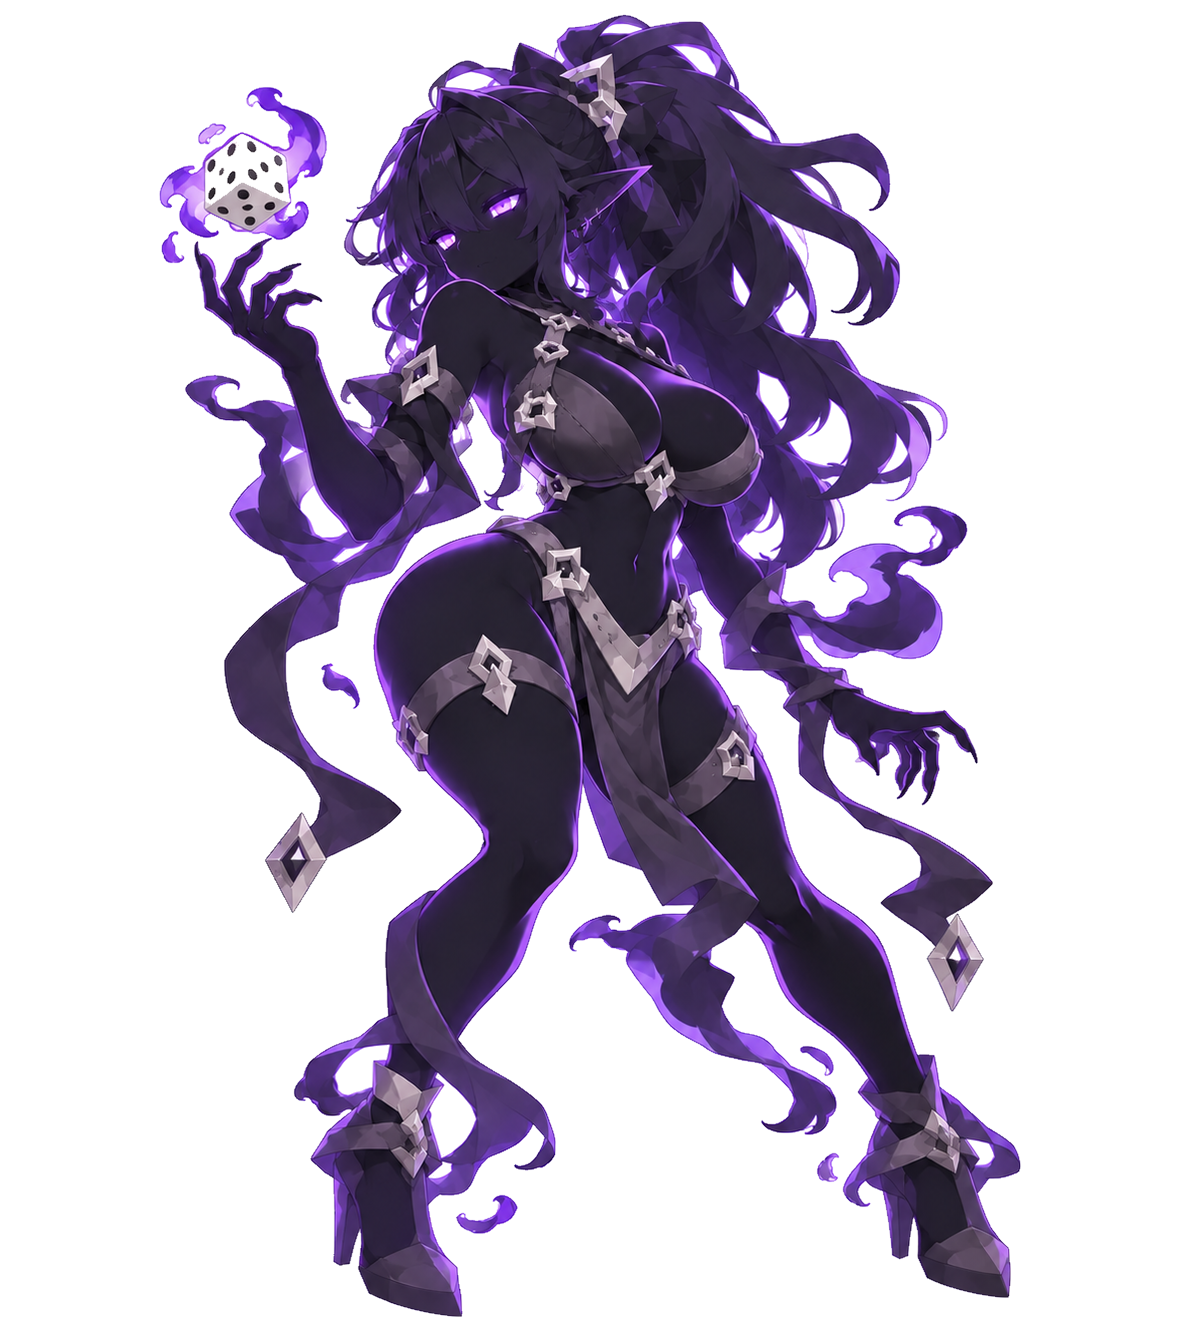
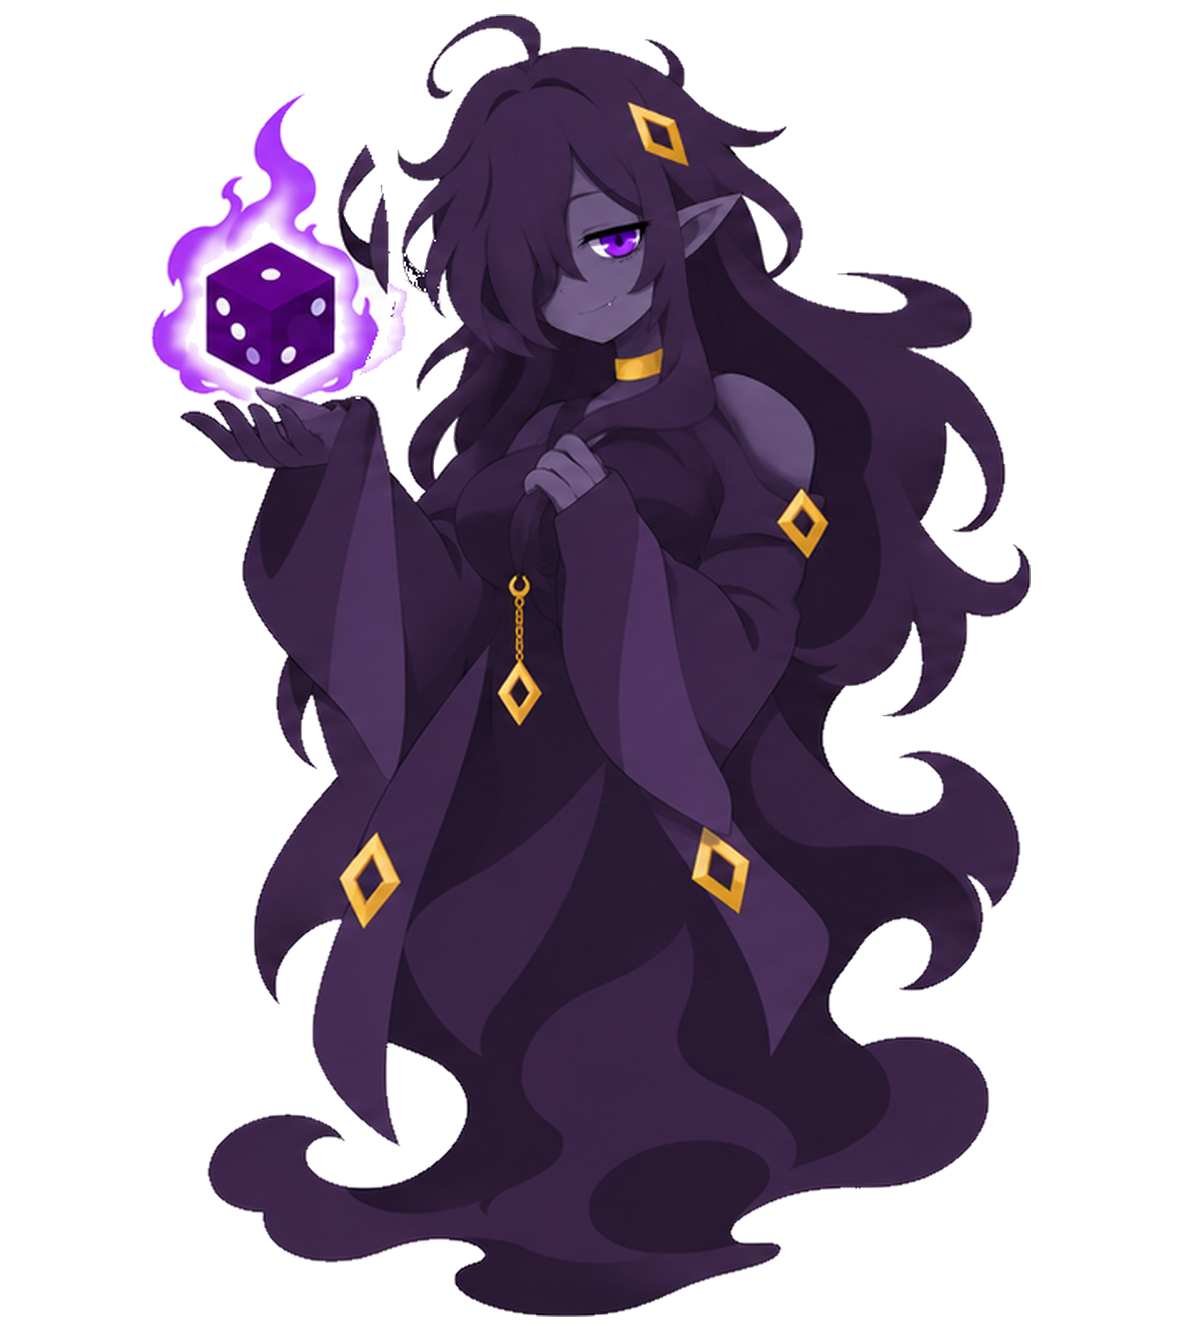
art: 45차 — 그림자 보라 확정·적용, 아머 고블린 rs11(기본/기쁨), 공허의 눈 b22

diff --git a/docs/art/ART_RESOURCES.md b/docs/art/ART_RESOURCES.md
@@ -723,6 +723,7 @@ Work는 `resources/ui/` 이미지가 있으면 StyleBoxTexture로 쓰고, 없으
   - 43차(2026-11-09): 그림자 — rs22 표정은 그럴듯하나 머리가 너무 큼 → GPT 재요청(rs23)은 자세·표정·주사위까지 바뀌어 폐기 → `tools/artgen/head_shrink.gd`(목 기준 핀치 변형, 불꽃·주사위 타원은 보호)로 rs22 머리만 약 74%로 축소(rs24). 표정·자세·주사위 1-3-2 그대로. 시트 `qa_out/r3/r42_shadow.png`(위 rs22 / 아래 rs24).
   - 참고(2026-11-09, Work 40fc4ea): 전투 초상 셰이더가 색을 두 번 곱하던 버그 수정 → 그동안 게임 안 원화가 원본보다 어둡고 진하게(광란의 마수는 유독 붉게) 보였음. 이제 게임 화면 = 원본 PNG 색. 게임 캡처로 색을 판단할 때는 수정 후 기준. 점액 군주(얼굴)·광란의 마수(목걸이 주사위)는 보스별 전투 크롭 지정. 비교 `qa_out/boss_fix_compare.png`.
   - 44차(2026-11-09): 그림자 — rs24 머리 크기 OK(사용자 "이 크기면 될듯"), 불꽃 옆 머리카락 끝 자국 정리. 색 3종 중 선택 대기. 아머 고블린 — 빨간 귀걸이 주사위를 다른 쪽과 같은 흰색으로(rs9 전신 편집에서 귀걸이만 rs8에 이식: 3·5로 서로 다름), 허리에 얹은 팔의 어깨 갑주가 어깨와 어긋남 → 어깨 크롭 GPT로 실제 어깨 관절 위에 씌움(6눈금, rs10). 웃는 표정 = 기쁨 상태, 기본 표정은 얼굴 크롭으로 요청 중. 공허의 눈 — A안(한쪽)은 가슴이 아니라 어깨에 붙어 비교 불가, B안(가운데) 위치는 좋지만 상처가 굴곡에 안 맞고 떠 보임 → b20(상처가 골 안으로 사라지며 X 소실, 폐기) → b21: X 네 갈래가 가슴 굴곡을 따라 휘고 가장자리 음영(가슴 크롭만 GPT). 보석 아래 띠 색이 조금 변함.
+  - 45차(2026-11-09): ✅ **그림자 보라 확정·적용**(rs24 머리 축소본의 보라 변형 → `resources/monsters/shadow/full.png`, 참고 `_reference/monsters/shadow/mo_shadow_full_final.png`). 배경 제거 시 불꽃 안쪽 흰 빛이 반투명으로 빠져 어두운 고리가 생긴 것·머리카락 사이 갇힌 흰 배경을 정리. 아머 고블린 — 허리에 손 얹은 쪽 어깨 갑주 제거(어깨 갑주는 메이스 쪽 한쪽만), 메이스 머리 1.17배(`tools/artgen/scale_part.gd`, 로컬 확대)(rs11). 웃는 얼굴 = 기쁨 상태, 기본 표정(눈 뜨고 덧니 하나 보이는 자신만만한 미소)은 얼굴 크롭으로 rs11d. 귀걸이 3·5. 메이스 위에 걸친 손은 유지. 공허의 눈 — b21 방향·상처 디자인 확정, 오른쪽 아래 갈래가 굴곡과 안 맞음 → 그 갈래만 가슴 밑 곡선을 따라 한 줄로(b22, 가슴 크롭 GPT).
 **광견 기준 정리 (2026-10-28)**: 기준은 rs15_mad_dog_1(꾸밈 흔적 버전 — 사람 얼굴·밝은 주황갈색 털·피부와 털 비율). 최신 색 수정본(1c 등)은 얼굴이 개 주둥이·털이 어두워짐 → 폐기. 수정: 붉은 리본·천을 크림·갈색으로, 홍조 제거. 입마개는 입을 가리면 별로 → **입을 가리지 않는 입마개** 시안(젠레스 존 제로 리카온 같은 턱 가드형, 오픈형 하네스, 턱끈형 등).
 
 **표준 프롬프트 (2026-10-27 사용자 지시)**: 모든 몬스터 이미지 요청에 `tools/artgen/style_monster.txt`(견습 모험가 화풍 + 낮은 복잡도 + 주사위 눈금 + 왼쪽 향 전신 + **견습 모험가는 화풍 참조일 뿐, 포즈·표정은 캐릭터 고유의 것으로**)를 기본으로 붙이고, 견습 모험가 원화(`resources/characters/novice/full.png`)와 **키 비주얼(`resources/key_visual/key_visual_tavern.png`, 2026-10-28 사용자 지정 화풍 기준)**을 항상 첨부한다. 사용자가 매번 "복잡도 줄이고 모험가 화풍 맞추기"를 짚지 않아도 되게 할 것. **2026-11-04 보강(사용자 지시: 자주 나오는 피드백은 기본 프롬프트에)**: ① 기존 그림 수정 시 원본의 색감·채도·명도·외곽선 굵기/색을 그대로 유지(짙어지거나 선이 굵어지면 안 됨) — 해당 몬스터의 이전 확정·기준본을 색·선 참고로 함께 첨부, ② 주사위 눈금 규칙 강화(면의 원근 격자에 맞춰 같은 크기·고른 간격, 보이는 세 면은 1-2-3처럼 서로 다른 인접 숫자).
